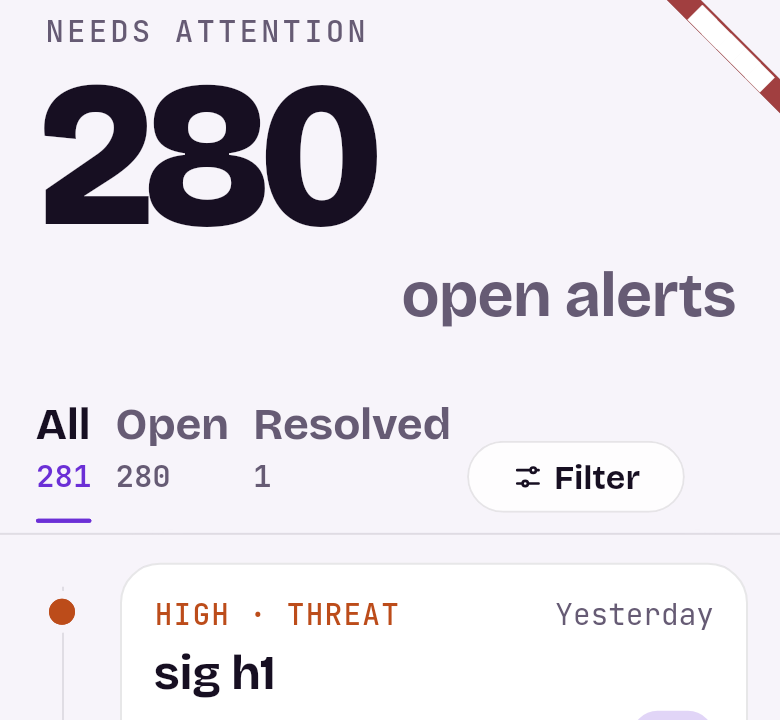
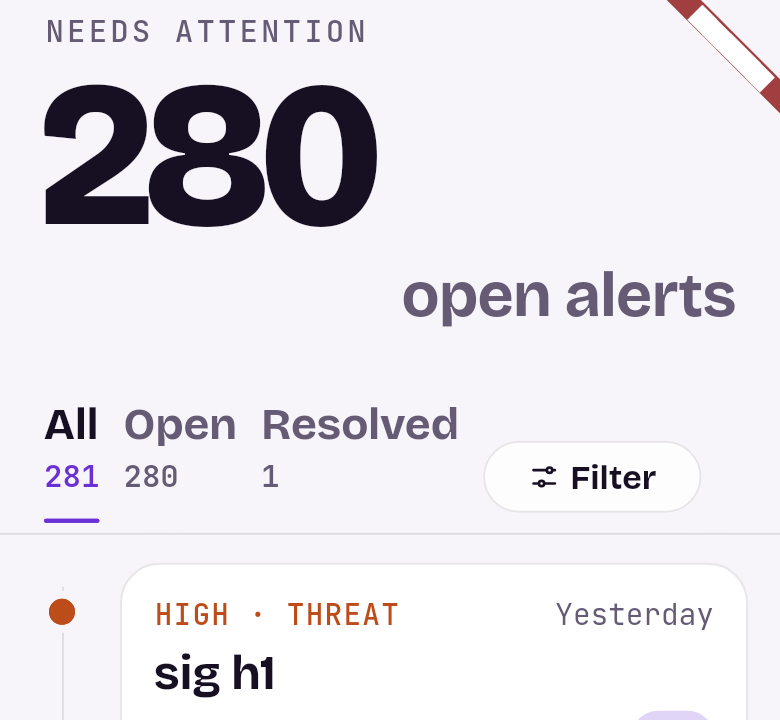
ui(alerts): group tabs left, align Filter to the content right edge, reserve longest label
The pinned tabs row now groups All/Open/Resolved on the left with the free space
in the middle and the Filter button pinned to the right; the row insets to the
page text margin so the Filter's right edge meets the end of 'open alerts' above
it. The button width is computed on the LONGEST label ('4 filters' + dot + icon
+ padding) at the current font scale and reused for 'Filter' and any count, so
it never resizes; the extra comes from the middle gap, not the tabs. New test:
4 filters at the largest font keeps the button text and every tab count on one
pinned line. Regenerated review screenshots (active now shows '4 filters').
Mobile 98 passed, analyze clean.

diff --git a/app/mobile/lib/screens/alerts/alert_list_screen.dart b/app/mobile/lib/screens/alerts/alert_list_screen.dart
@@ -127,12 +127,13 @@ class _AlertListScreenState extends State<AlertListScreen> {
   Color get _summaryDotColor =>
       _shown.isEmpty ? Ui.acc : _severityColors(_selectedBySeverity.first).foreground;
 
-  // Fixed content width for the filter pill = the widest state ("2 filters"
-  // with the dot), measured at the current font scale so the pill never resizes
-  // between "Filter" and any count. No ghost widget, so no duplicate text.
+  // Fixed content width for the filter pill = the LONGEST possible state
+  // ("4 filters" — all four severities — with the dot), measured at the current
+  // font scale so the pill never resizes between "Filter" and any count. No
+  // ghost widget, so no duplicate text.
   double _pillContentWidth(BuildContext context) {
     final tp = TextPainter(
-      text: TextSpan(text: '2 filters', style: UiText.sans(12, 700)),
+      text: TextSpan(text: '4 filters', style: UiText.sans(12, 700)),
       textDirection: TextDirection.ltr,
       textScaler: MediaQuery.textScalerOf(context),
     )..layout();
@@ -261,18 +262,17 @@ class _AlertListScreenState extends State<AlertListScreen> {
         child: Container(
           alignment: Alignment.bottomCenter,
           decoration: BoxDecoration(border: Border(bottom: BorderSide(color: Ui.line))),
-          // Right padding 16 so the Filter's right edge lines up with the alert
-          // cards below (which inset 16).
-          padding: const EdgeInsets.fromLTRB(18, 4, 16, 6),
+          // Inset to the page text margin so the row lines up with the big title
+          // and the Filter's right edge meets the end of "open alerts" above it.
+          padding: const EdgeInsets.fromLTRB(UiSpace.pageText, 4, UiSpace.pageText, 6),
           child: Row(
             crossAxisAlignment: CrossAxisAlignment.end,
             children: [
-              // Tabs stay on the left; shrink-to-scroll only as a last resort so
-              // All/Open/Resolved and their counts remain visible.
+              // Tabs grouped on the left (shrink-to-scroll only as a last resort
+              // so All/Open/Resolved and their counts stay visible).
               Flexible(
                 child: SingleChildScrollView(
                   scrollDirection: Axis.horizontal,
-                  reverse: false,
                   child: Row(
                     crossAxisAlignment: CrossAxisAlignment.end,
                     children: [
@@ -284,8 +284,9 @@ class _AlertListScreenState extends State<AlertListScreen> {
                   ),
                 ),
               ),
-              const SizedBox(width: 8),
-              // Filter beside the tabs, aligned to the label baseline area.
+              // Free space between the tabs and the button; the button takes its
+              // fixed width from here and stays pinned to the right edge.
+              const SizedBox(width: 12),
               Padding(padding: const EdgeInsets.only(bottom: 4), child: _filterPill()),
             ],
           ),

diff --git a/app/mobile/test/alert_list_controls_test.dart b/app/mobile/test/alert_list_controls_test.dart
@@ -250,6 +250,46 @@ void main() {
     }
   });
 
+  testWidgets('4 filters at the largest font: button text + all tab counts on one pinned row',
+      (tester) async {
+    SharedPreferences.setMockInitialValues(
+        {'ui.alertSeverities': ['low', 'medium', 'high', 'critical']});
+    await _loadFonts();
+    final state = AppState(_Repo([
+      for (var i = 0; i < 8; i++) _mk('o$i', Severity.high, 100 - i),
+      _mk('done', Severity.critical, 0, state: AlertState.resolved),
+    ]));
+    addTearDown(state.dispose);
+    addTearDown(tester.view.reset);
+    await tester.runAsync(state.refresh);
+    tester.view.devicePixelRatio = 1;
+    tester.view.physicalSize = const Size(360, 1600);
+    await tester.pumpWidget(MaterialApp(
+      theme: MobileTheme.light,
+      home: Builder(
+        builder: (c) => MediaQuery(
+          data: MediaQuery.of(c).copyWith(textScaler: const TextScaler.linear(1.4)),
+          child: Scaffold(body: AlertListScreen(state: state)),
+        ),
+      ),
+    ));
+    await tester.pump(const Duration(milliseconds: 400));
+
+    expect(find.text('4 filters'), findsOneWidget); // longest label fits
+    expect(tester.takeException(), isNull);
+
+    // All / Open / Resolved + counts and the button all on one line.
+    final resolved = tester.getRect(find.text('Resolved').first);
+    expect(resolved.left, greaterThanOrEqualTo(0));
+    expect(resolved.right, lessThanOrEqualTo(360));
+    final all = tester.getRect(find.text('All').first);
+    final filter = tester.getRect(find.byKey(const ValueKey('alertFilterButton')));
+    expect(filter.top < all.bottom && filter.bottom > all.top, isTrue,
+        reason: 'filter shares the tabs row');
+    expect(filter.right, lessThanOrEqualTo(360)); // within the right margin
+    await tester.pumpWidget(const SizedBox());
+  });
+
   testWidgets('back-to-top button appears after scrolling and returns to top',
       (tester) async {
     await _pump(

diff --git a/app/mobile/test/ui_goldens_test.dart b/app/mobile/test/ui_goldens_test.dart
@@ -204,7 +204,7 @@ void main() {
   // active, 3-digit counts (like All 281 / Open 280 / Resolved 1).
   Future<void> alertsHeaderShot(WidgetTester tester, String name, {required bool active}) async {
     SharedPreferences.setMockInitialValues(
-        active ? {'ui.alertSeverities': ['high', 'critical']} : {});
+        active ? {'ui.alertSeverities': ['low', 'medium', 'high', 'critical']} : {});
     for (final f in ['BricolageGrotesque', 'JetBrainsMono']) {
       final l = FontLoader(f == 'BricolageGrotesque' ? 'Bricolage Grotesque' : 'JetBrains Mono');
       l.addFont(rootBundle.load('assets/fonts/$f.ttf'));
